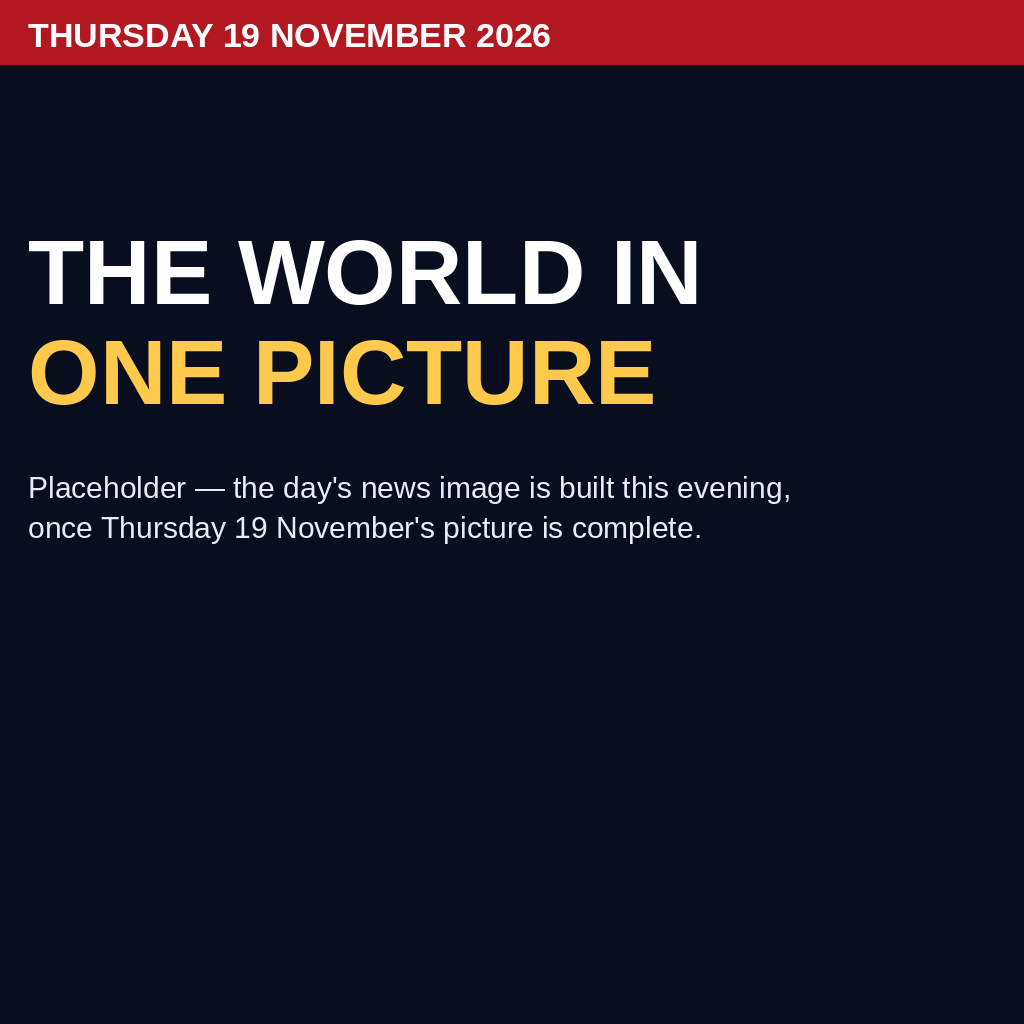
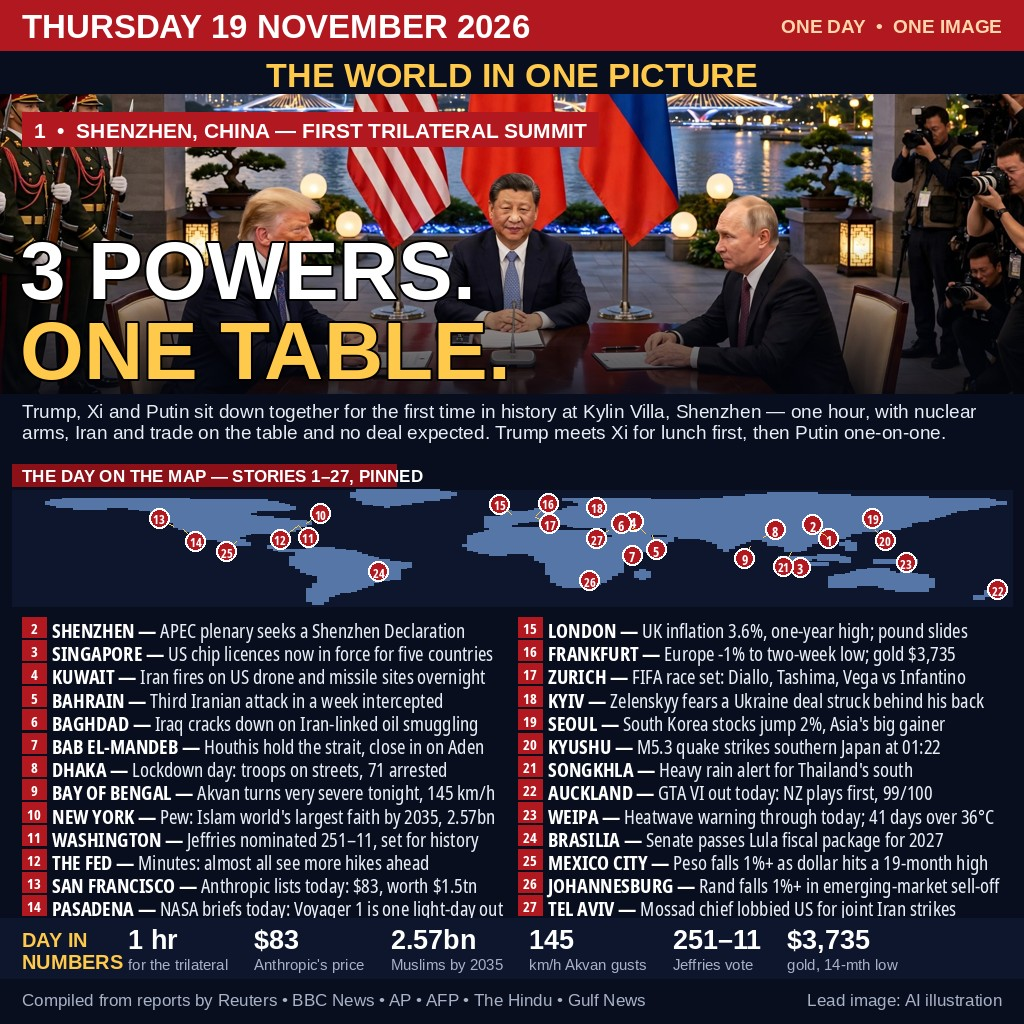
Final entry image: 3 Powers One Table — Shenzhen trilateral lead, 27 stories pinned on world map, Day in Numbers

diff --git a/main.py b/main.py
@@ -18,12 +18,13 @@ from pathlib import Path
 
 HERE = Path(__file__).resolve().parent
 SOURCE_IMAGE = HERE / "entry.png"
+ENTRY_NAME = "entry.png"
 
 
 def output_path() -> Path:
     """Return where the grader expects the image to be written."""
     out_dir = Path(os.environ.get("MAKEFUN_OUTPUT_DIR", "/output"))
-    return out_dir / "entry.png"
+    return out_dir / ENTRY_NAME
 
 
 def main() -> None:
